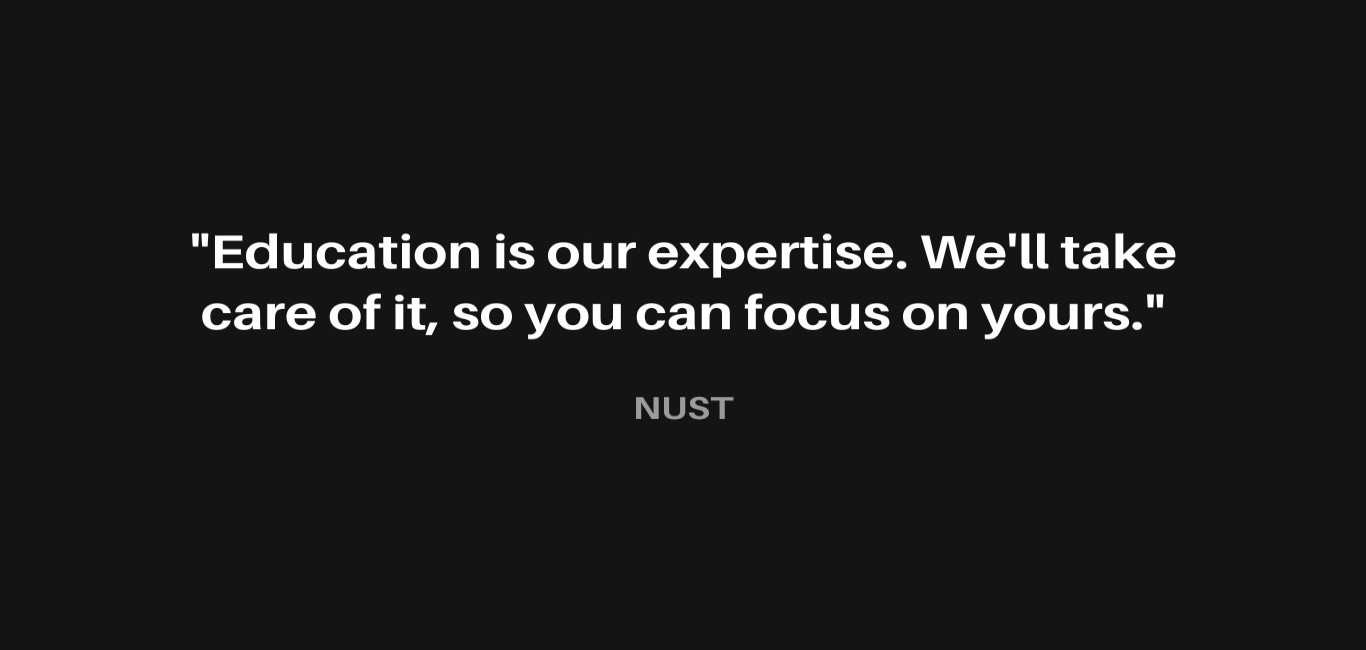
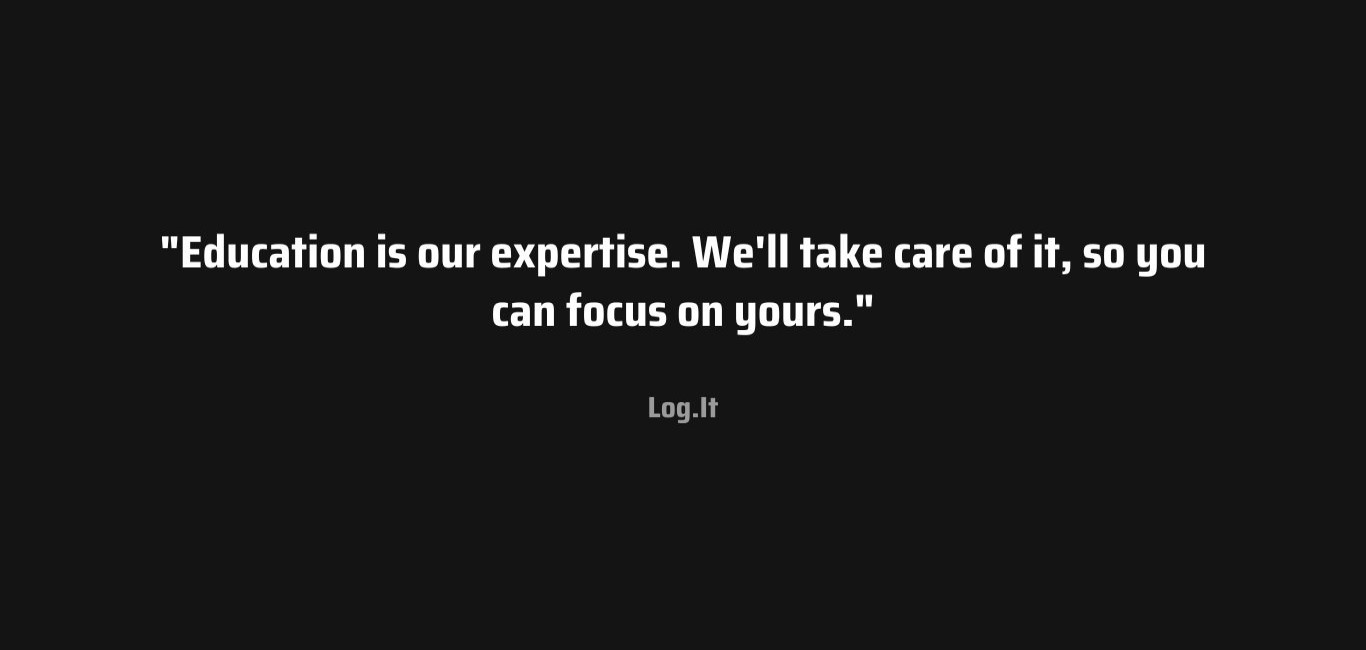
Fixed minor bugs and gave the name Log.It

Changed region(s): [[0.123, 0.3385, 0.8917, 0.5231], [0.4612, 0.6154, 0.5534, 0.6462]]

diff --git a/templates/acknowledge.html b/templates/acknowledge.html
@@ -4,7 +4,7 @@
 <head>
     <meta charset="UTF-8">
     <meta name="viewport" content="width=device-width, initial-scale=1.0">
-    <title>edu</title>
+    <title>Log.It</title>
     <link rel="stylesheet" href="/static/acknowledge.css">
     <script src="https://cdn.jsdelivr.net/npm/marked/marked.min.js"></script>
     <script src="/static/script.js"></script>
@@ -16,7 +16,7 @@
     <div id="navbar">
         <div id="logo">
             <div>
-                <h4 id="lname">edu</h4>
+                <h4 id="lname">Log.It</h4>
             </div>
         </div>
         <div id="options">
@@ -43,11 +43,11 @@
         <ul>
             <li><strong>Sir Taufreak ur Rehman</strong> for his exceptional guidance and teaching in the field of ICT,
                 which has greatly enriched our knowledge and skills.</li>
-            <li><strong>Mam Saira Zainab</strong> for her incredible design work on the font that has given our project
+            <li><strong>Mam Saira Zainab</strong> for her incredible font that has given our project
                 a unique and professional appearance.</li>
         </ul>
         <h2>Our Team</h2>
-        <p>We also acknowledge the hard work and dedication of our team members, whose relentless efforts and teamwork
+        <p>We also acknowledge the hard work and dedication of our team members which are US, whose relentless efforts and teamwork
             have been the cornerstone of this project. Your perseverance and passion have driven this project to
             success.</p>
         <h2>Microsoft Copilot</h2>
@@ -55,7 +55,7 @@
             assistance. Your help has been instrumental in overcoming many challenges and ensuring the smooth
             progression of our project.</p>
         <h2>Ourselves</h2>
-        <p>Lastly, we acknowledge ourselves for our commitment, creativity, and determination in bringing this project
+        <p>Lastly, we again acknowledge ourselves for our commitment, creativity, and determination in bringing this project
             to fruition. It has been a journey of learning, growth, and achievement.</p>
     </div>
     <div id="popup" class="popup">Popup Content</div>

diff --git a/static/style.css b/static/style.css
@@ -164,7 +164,7 @@ button:disabled {
 
 button:hover {
     box-shadow: rgba(0, 0, 0, 0.25) 0 8px 15px;
-    transform: translateY(-265px2px);
+    transform: translateY(2px);
 }
 
 button:active {
@@ -184,7 +184,7 @@ button:active {
     position: absolute;
     width: 33px;
     height: 33px;
-    border: 2px solid #333;
+    border: 2px solid #b6adad;
     border-left: 0;
     border-top: 0;
     margin-top: 330px;
@@ -257,7 +257,7 @@ button:active {
     top: 50%;
     width: auto;
     padding: 16px;
-    margin-top: -265px22px;
+    margin-top: 22px;
     color: white;
     font-weight: bold;
     font-size: 18px;
@@ -322,7 +322,7 @@ button:active {
     z-index: 1000;
     transition: opacity 0.3s ease, transform 0.3s ease;
     opacity: 0;
-    transform: translateY(-265px10px);
+    transform: translateY(10px);
 }
 
 .popup.visible {
@@ -336,7 +336,7 @@ button:active {
     position: absolute;
     top: 50%;
     left: 100%;
-    margin-top: -265px5px;
+    margin-top: 5px;
     border-width: 5px;
     border-style: solid;
     border-color: transparent transparent transparent rgba(20, 20, 22, 0.9);

diff --git a/templates/index.html b/templates/index.html
@@ -3,7 +3,7 @@
 <head>
     <meta charset="UTF-8">
     <meta name="viewport" content="width=device-width, initial-scale=1.0">
-    <title>edu</title>
+    <title>Log.It</title>
     <link rel="stylesheet" href="/static/style.css">
     <script src="https://cdn.jsdelivr.net/npm/marked/marked.min.js"></script>
     <script src="/static/script.js"></script>
@@ -12,7 +12,7 @@
     <div id="navbar">
         <div id="logo">
             <div>
-                <h4 id="lname">edu</h4>
+                <h4 id="lname">Log.It</h4>
             </div>
         </div>
         <div id="options">
@@ -36,7 +36,7 @@
             <div class="slide fade">
                 <div class="numbertext">1 / 4</div>
                 <img src="/static/img/slide1.jpg" style="width:100%">
-                <div class="text">Welcome to edu</div>
+                <div class="text">Welcome to Log.It</div>
             </div>
     
             <div class="slide fade">

diff --git a/static/acknowledge.css b/static/acknowledge.css
@@ -181,7 +181,7 @@ button:disabled {
 
 button:hover {
     box-shadow: rgba(0, 0, 0, 0.25) 0 8px 15px;
-    transform: translateY(-265px2px);
+    transform: translateY(2px);
 }
 
 button:active {
@@ -201,7 +201,7 @@ button:active {
     position: absolute;
     width: 33px;
     height: 33px;
-    border: 2px solid #333;
+    border: 2px solid #b6adad;
     border-left: 0;
     border-top: 0;
     margin-top: 330px;
@@ -223,7 +223,7 @@ button:active {
     z-index: 1000;
     transition: opacity 0.3s ease, transform 0.3s ease;
     opacity: 0;
-    transform: translateY(-265px10px);
+    transform: translateY(10px);
 }
 
 .popup.visible {
@@ -237,7 +237,7 @@ button:active {
     position: absolute;
     top: 50%;
     left: 100%;
-    margin-top: -265px5px;
+    margin-top: 5px;
     border-width: 5px;
     border-style: solid;
     border-color: transparent transparent transparent rgba(20, 20, 22, 0.9);

diff --git a/static/contact.css b/static/contact.css
@@ -198,7 +198,7 @@ button:active {
     position: absolute;
     width: 33px;
     height: 33px;
-    border: 2px solid #333;
+    border: 2px solid #b6adad;
     border-left: 0;
     border-top: 0;
     margin-top: 330px;
@@ -220,7 +220,7 @@ button:active {
     z-index: 1000;
     transition: opacity 0.3s ease, transform 0.3s ease;
     opacity: 0;
-    transform: translateY(-265px10px);
+    transform: translateY(10px);
 }
 
 .popup.visible {
@@ -234,7 +234,7 @@ button:active {
     position: absolute;
     top: 50%;
     left: 100%;
-    margin-top: -265px5px;
+    margin-top: 5px;
     border-width: 5px;
     border-style: solid;
     border-color: transparent transparent transparent rgba(20, 20, 22, 0.9);

diff --git a/static/learn.css b/static/learn.css
@@ -195,7 +195,7 @@ button:active {
     position: absolute;
     width: 33px;
     height: 33px;
-    border: 2px solid #333;
+    border: 2px solid #b6adad;
     border-left: 0;
     border-top: 0;
     margin-top: 330px;
@@ -217,7 +217,7 @@ button:active {
     z-index: 1000;
     transition: opacity 0.3s ease, transform 0.3s ease;
     opacity: 0;
-    transform: translateY(-265px10px);
+    transform: translateY(10px);
 }
 
 .popup.visible {
@@ -231,7 +231,7 @@ button:active {
     position: absolute;
     top: 50%;
     left: 100%;
-    margin-top: -265px5px;
+    margin-top: 5px;
     border-width: 5px;
     border-style: solid;
     border-color: transparent transparent transparent rgba(20, 20, 22, 0.9);

diff --git a/static/result.css b/static/result.css
@@ -194,7 +194,7 @@ button:active {
     position: absolute;
     width: 33px;
     height: 33px;
-    border: 2px solid #333;
+    border: 2px solid #b6adad;
     border-left: 0;
     border-top: 0;
     margin-top: 330px;
@@ -220,7 +220,7 @@ button:active {
     z-index: 1000;
     transition: opacity 0.3s ease, transform 0.3s ease;
     opacity: 0;
-    transform: translateY(-265px10px);
+    transform: translateY(10px);
 }
 
 .popup.visible {
@@ -234,7 +234,7 @@ button:active {
     position: absolute;
     top: 50%;
     left: 100%;
-    margin-top: -265px5px;
+    margin-top: 5px;
     border-width: 5px;
     border-style: solid;
     border-color: transparent transparent transparent rgba(20, 20, 22, 0.9);

diff --git a/static/test.css b/static/test.css
@@ -194,7 +194,7 @@ button:active {
     position: absolute;
     width: 33px;
     height: 33px;
-    border: 2px solid #333;
+    border: 2px solid #b6adad;
     border-left: 0;
     border-top: 0;
     margin-top: 330px;
@@ -216,7 +216,7 @@ button:active {
     z-index: 1000;
     transition: opacity 0.3s ease, transform 0.3s ease;
     opacity: 0;
-    transform: translateY(-265px10px);
+    transform: translateY(10px);
 }
 
 .popup.visible {
@@ -230,7 +230,7 @@ button:active {
     position: absolute;
     top: 50%;
     left: 100%;
-    margin-top: -265px5px;
+    margin-top: 5px;
     border-width: 5px;
     border-style: solid;
     border-color: transparent transparent transparent rgba(20, 20, 22, 0.9);

diff --git a/templates/result.html b/templates/result.html
@@ -3,7 +3,7 @@
 <head>
     <meta charset="UTF-8">
     <meta name="viewport" content="width=device-width, initial-scale=1.0">
-    <title>edu</title>
+    <title>Log.It</title>
     <link rel="stylesheet" href="/static/result.css">
     <script src="https://cdn.jsdelivr.net/npm/chartjs-plugin-datalabels@2.0.0"></script>
     <script src="https://cdn.jsdelivr.net/npm/chart.js"></script>
@@ -17,7 +17,7 @@
     <div id="navbar">
         <div id="logo">
             <div>
-                <h4 id="lname">edu</h4>
+                <h4 id="lname">Log.It</h4>
             </div>
         </div>
         <div id="options">

diff --git a/templates/rand_fact.html b/templates/rand_fact.html
@@ -3,7 +3,7 @@
 <head>
     <meta charset="UTF-8">
     <meta name="viewport" content="width=device-width, initial-scale=1.0">
-    <title>edu</title>
+    <title>Log.It</title>
     <link rel="stylesheet" href="/static/test.css">
     <script src="https://cdn.jsdelivr.net/npm/chart.js"></script> 
     <script src="https://cdn.jsdelivr.net/npm/chartjs-plugin-datalabels@2.0.0"></script>
@@ -17,7 +17,7 @@
     <div id="navbar">
         <div id="logo">
             <div>
-                <h4 id="lname">edu</h4>
+                <h4 id="lname">Log.It</h4>
             </div>
         </div>
         <div id="options">

diff --git a/templates/test.html b/templates/test.html
@@ -3,7 +3,7 @@
 <head>
     <meta charset="UTF-8">
     <meta name="viewport" content="width=device-width, initial-scale=1.0">
-    <title>edu</title>
+    <title>Log.It</title>
     <link rel="stylesheet" href="/static/test.css">
     <script src="https://cdn.jsdelivr.net/npm/chart.js"></script> 
     <script src="https://cdn.jsdelivr.net/npm/chartjs-plugin-datalabels@2.0.0"></script>
@@ -17,7 +17,7 @@
     <div id="navbar">
         <div id="logo">
             <div>
-                <h4 id="lname">edu</h4>
+                <h4 id="lname">Log.It</h4>
             </div>
         </div>
         <div id="options">

diff --git a/templates/contact.html b/templates/contact.html
@@ -3,7 +3,7 @@
 <head>
     <meta charset="UTF-8">
     <meta name="viewport" content="width=device-width, initial-scale=1.0">
-    <title>edu</title>
+    <title>Log.It</title>
     <link rel="stylesheet" href="/static/contact.css">
     <script src="https://cdn.jsdelivr.net/npm/marked/marked.min.js"></script>
     <script src="/static/script.js"></script>
@@ -14,7 +14,7 @@
     <div id="navbar">
         <div id="logo">
             <div>
-                <h4 id="lname">edu</h4>
+                <h4 id="lname">Log.It</h4>
             </div>
         </div>
         <div id="options">
